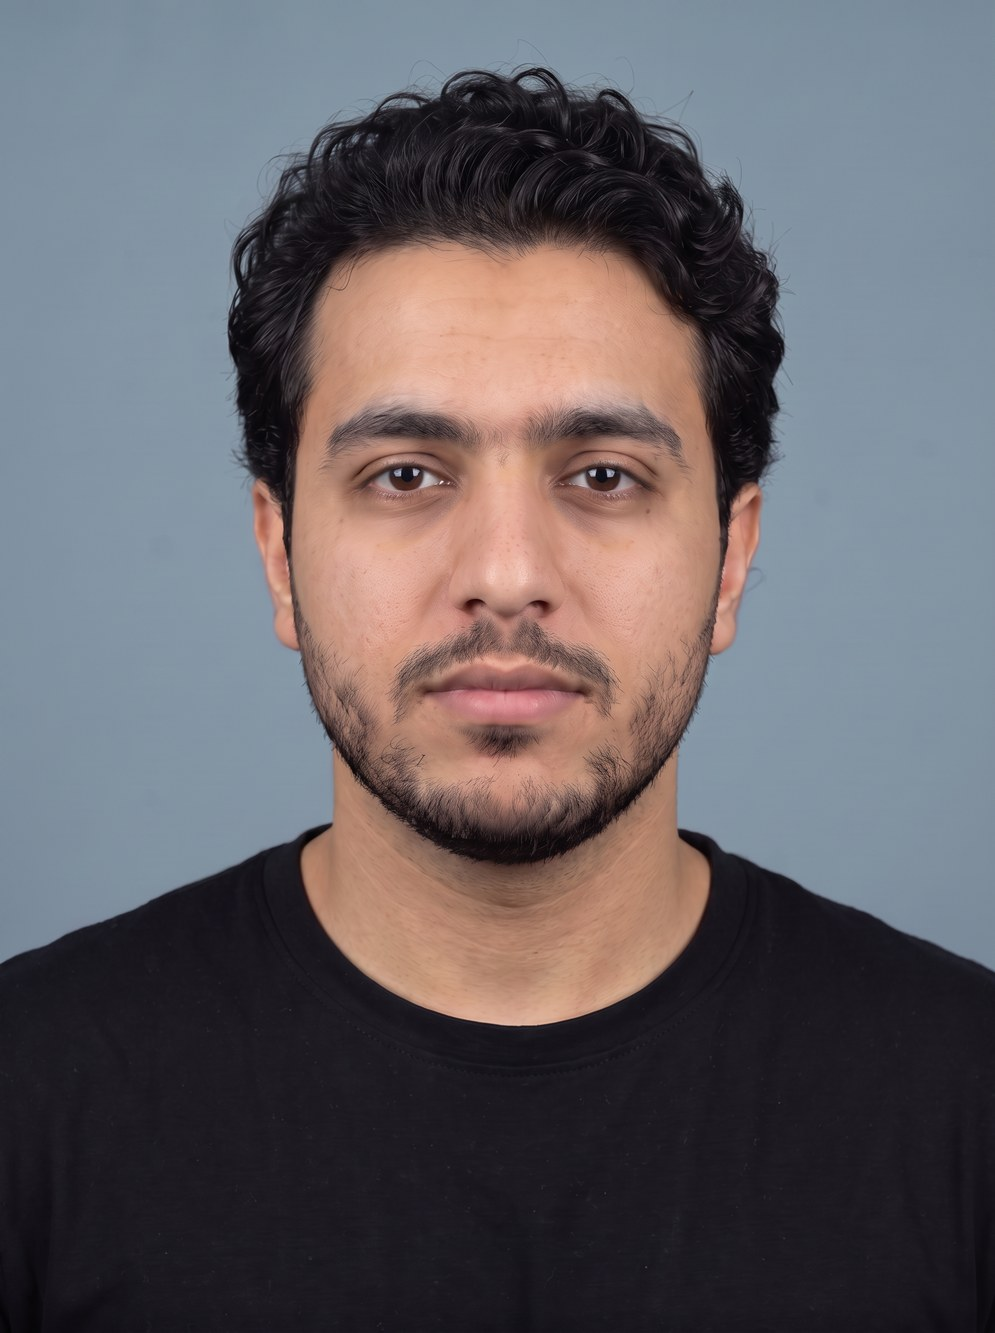
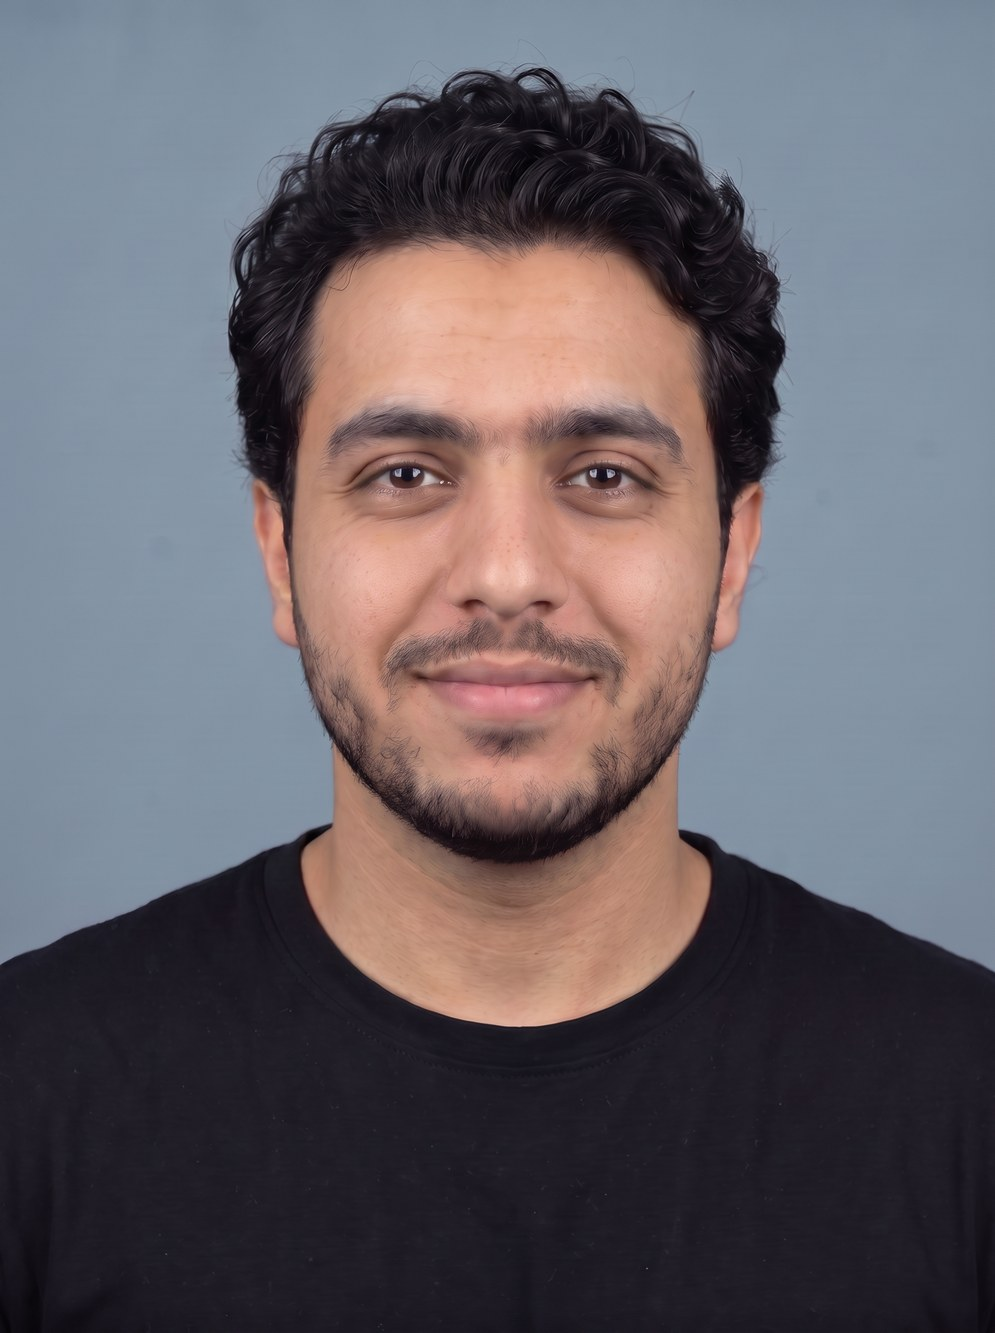
Fix tired/sad eyes in after: unlock eyelid position, subtle genuine smile
Eyelid aperture and expression are not identity; the after prompt now
locks only eye spacing, width and iris colour, lifts drooping lids and
asks for a closed-mouth smile that reaches the eyes. Sample face after
regenerated (realism check passes).

Claude-Session: https://claude.ai/code/session_01YK5LfND9fHzJNnxfHhhsd1

diff --git a/app/src/lib/plan.ts b/app/src/lib/plan.ts
@@ -776,7 +776,7 @@ export function hairAdvice(intake: Intake, shape: string | null) {
  * paler skin, drooping mouth corners, rated sadder and less attractive).
  */
 export const PRESENCE =
-  "Overall the after must read as the sharper, healthier, well-rested version of the same man, not a copy of the baseline with a new haircut: alert, focused gaze with upper eyelids open (not heavy or hooded-looking from fatigue), clear eye whites, no under-eye shadows or puffiness; brows level and relaxed (no raised inner brows or worried angle), groomed; clear bright whites with natural catchlights; mouth corners neutral, not drooping; head held level with a long neck and shoulders back; healthy, warm, even skin colour (same skin tone); defined facial planes from fat loss — visible hollow under the cheekbones, crisp jawline and a clean chin-to-neck angle. Expression calm, confident and engaged — not sleepy, sad or blank, no broad smile.";
+  "Overall the after must read as the sharper, healthier, well-rested version of the same man, not a copy of the baseline with a new haircut: alert, focused gaze with upper eyelids open (not heavy or hooded-looking from fatigue), clear eye whites, no under-eye shadows or puffiness; brows level and relaxed (no raised inner brows or worried angle), groomed; clear bright whites with natural catchlights; mouth corners neutral, not drooping; head held level with a long neck and shoulders back; healthy, warm, even skin colour (same skin tone); defined facial planes from fat loss — visible hollow under the cheekbones, crisp jawline and a clean chin-to-neck angle. Eyelid position and expression are NOT identity — only eye spacing, eye width and iris colour are locked; lift drooping upper lids so the eyes look awake. Expression: a genuine, subtle closed-mouth smile that reaches the eyes (lower lids slightly raised, cheeks a little lifted), confident and warm — never sleepy, sad or blank, no teeth.";
 
 export function afterPrompt(plan: Plan, intake: Intake): string {
   const changes = plan.items.filter((i) => i.visual).map((i, n) => `${n + 1}) ${i.visual}`);
@@ -785,7 +785,7 @@ export function afterPrompt(plan: Plan, intake: Intake): string {
     `Show the result of a realistic 12-month, evidence-based self-improvement plan. Apply ALL of these changes clearly and visibly: ${changes.join("; ")}.`,
     PRESENCE,
     "LOCK identity and bone: identical eye shape and eye spacing, nose width and shape, lips, ears, jaw bone width, chin, skull shape, ethnicity and skin tone (do not lighten the skin). Fat loss may slim soft tissue only. No surgery-like changes. Always edit the original baseline, never a previous after image.",
-    `Neutral relaxed expression, closed lips. Photorealistic, no makeup${intake.gender === "female" ? " beyond the person's usual" : ""}, no beauty filter, natural skin texture.`,
+    `Subtle closed-mouth smile, warm engaged eyes. Photorealistic, no makeup${intake.gender === "female" ? " beyond the person's usual" : ""}, no beauty filter, natural skin texture.`,
   ].join(" ");
 }
 
